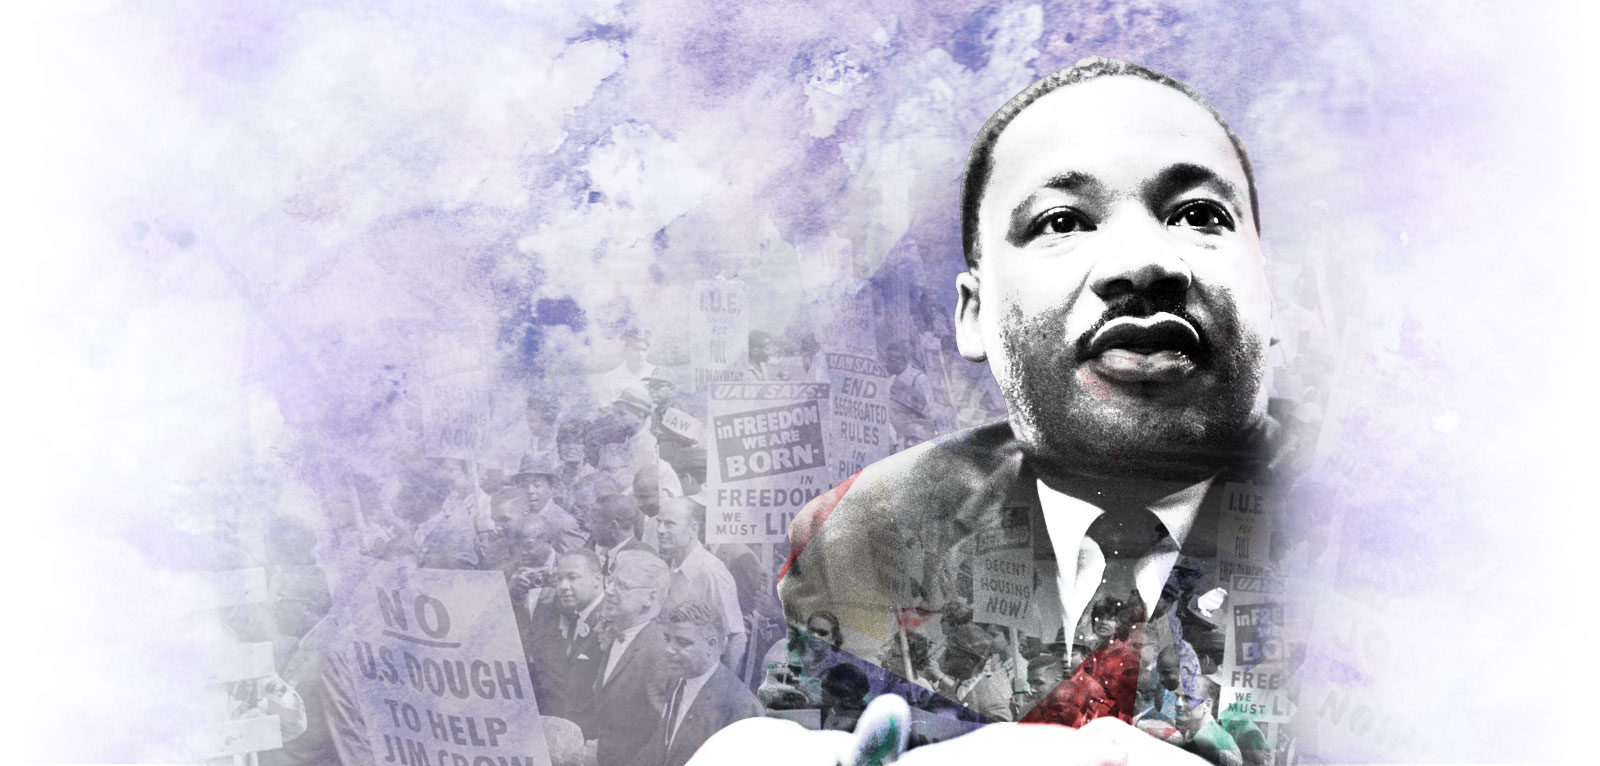
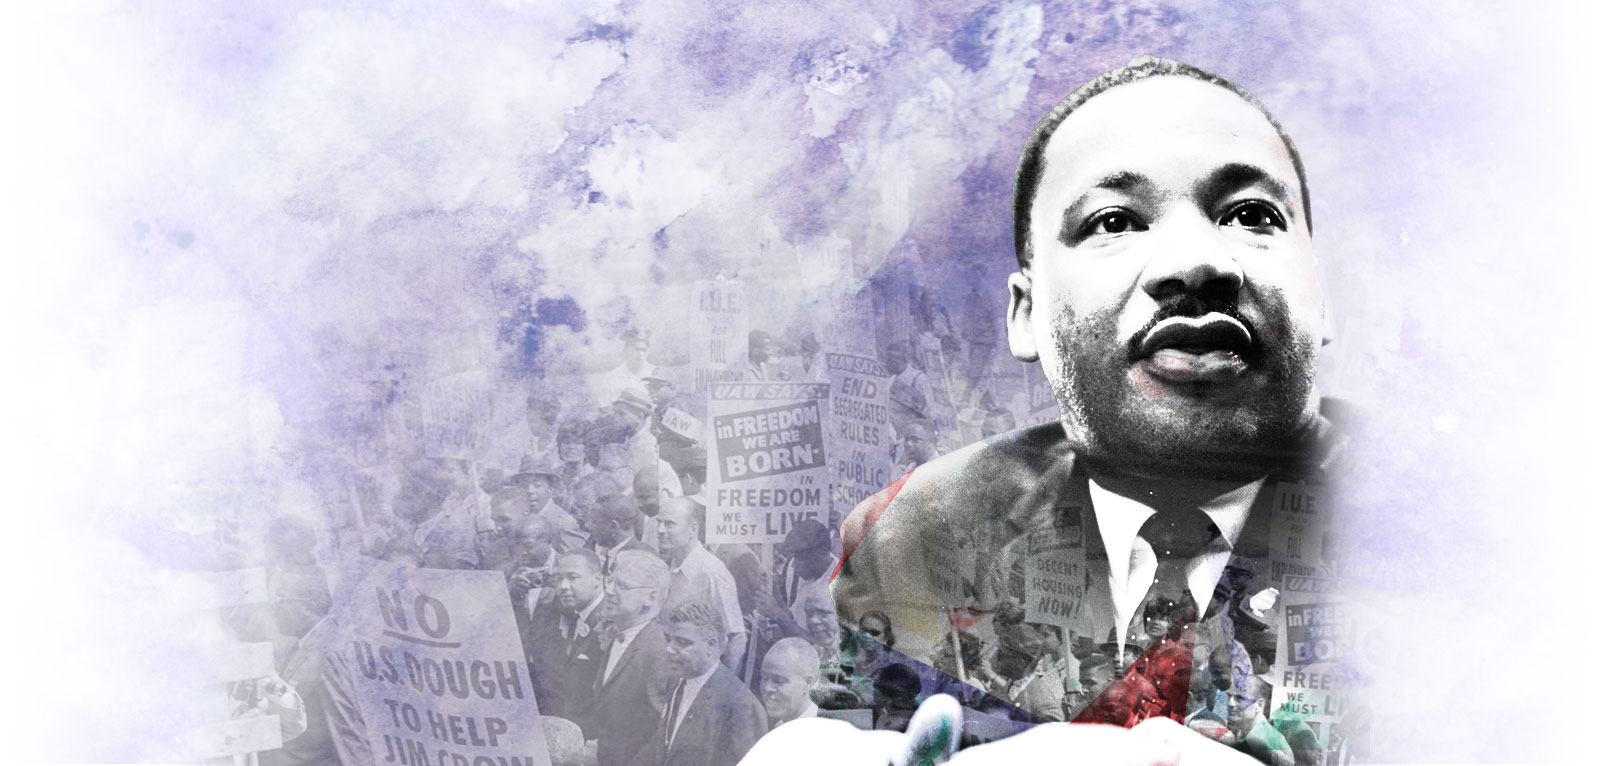
bg size + alignment fix

Changed region(s): [[0.4062, 0.0601, 0.8438, 1.0], [0.2188, 0.4504, 0.2812, 0.5705]]

diff --git a/themes/mlk/css/master.css b/themes/mlk/css/master.css
@@ -43,7 +43,7 @@ header.affix{top:0;width:100%}.btn{border-radius:0}.nav>li a{font-family:"proxim
 .navbar-brand{padding-top:22px;padding-bottom:3px}@media screen and (min-width: 1024px){.navbar-brand{padding-top:10px;padding-bottom:5px;padding-left:0}}
 .navbar-toggle{padding:2px 10px;margin-top:28px}@media screen and (min-width: 768px){.navbar-toggle{padding:9px 10px;margin-top:22px}}.navbar-toggle .icon-bar{background:#5750a2}.navbar-brand img{height:30px}@media screen and (min-width: 1024px){.navbar-brand img{height:50px}}
 .navbar-collapse{background:#eee}@media screen and (min-width: 768px){.navbar-collapse{background:#fff}}
-.bg-container{background-image:url("../images/bg.jpg");background-color:white;background-repeat:no-repeat;background-position:40% 0;background-size:130%}.bg-container .overlay-container{background:rgba(255,255,255,0.47);height:100%}@media screen and (min-width: 768px){.bg-container .overlay-container{background:rgba(255,255,255,0.35)}}@media screen and (min-width: 992px){.bg-container .overlay-container{background:none}}@media screen and (min-width: 768px){.bg-container{background-position:55% 0;height:550px}}@media screen and (min-width: 1200px){.bg-container{background-position:50% 0;height:600px}}@media screen and (min-width: 1400px){.bg-container{background-position:50% 0;height:760px}}
+.bg-container{background-image:url("../images/bg.jpg");background-color:white;background-repeat:no-repeat;background-position:40% 0}.bg-container .overlay-container{background:rgba(255,255,255,0.47);height:100%}@media screen and (min-width: 768px){.bg-container .overlay-container{background:rgba(255,255,255,0.35)}}@media screen and (min-width: 992px){.bg-container .overlay-container{background:none}}@media screen and (min-width: 768px){.bg-container{background-position:55% 0;height:550px}}@media screen and (min-width: 1200px){.bg-container{background-position:50% 0;height:600px}}@media screen and (min-width: 1400px){.bg-container{background-position:50% 0;height:760px}}
 .hero-text-container .tagline img{width:100%;padding:10px 0}@media screen and (min-width: 768px){.hero-text-container .tagline img{padding:20px 0}}@media screen and (min-width: 992px){.hero-text-container .tagline img{padding-top:55px}}
 .hero-text{font-size:1.5em;font-weight:bold;color:white;text-shadow:0 2px 0 rgba(0,0,0,0.4)}@media screen and (min-width: 768px){.hero-text{font-size:2em}}.hero-text .hero-links{clear:both;margin-top:5%;float:right;width:75%;text-align:center}.hero-text .hero-links a{color:white;text-transform:uppercase;display:block;margin:1%;padding:1%}@media screen and (min-width: 768px){.hero-text .hero-links a{background:#00a79d;display:inline-block}}.hero-text .hero-links .soon{float:right;margin:1%;text-align:center}@media screen and (min-width: 768px){.hero-text.left{margin-top:0.3em;float:left}}
 @media screen and (min-width: 768px){.hero-text.right{float:right;line-height:1.2;margin-top:75px}}.hero-text.right img{max-width:75%;float:right}@media screen and (min-width: 768px){.hero-text.right img{margin-top:5%}}

diff --git a/themes/mlk/scss/imports/_hero.scss b/themes/mlk/scss/imports/_hero.scss
@@ -4,7 +4,6 @@
 	background-color: white;
 	background-repeat: no-repeat;
 	background-position: 40% 0;
-	background-size: 130%;
 
 	.overlay-container{
 		background: rgba(255, 255, 255, 0.47);
